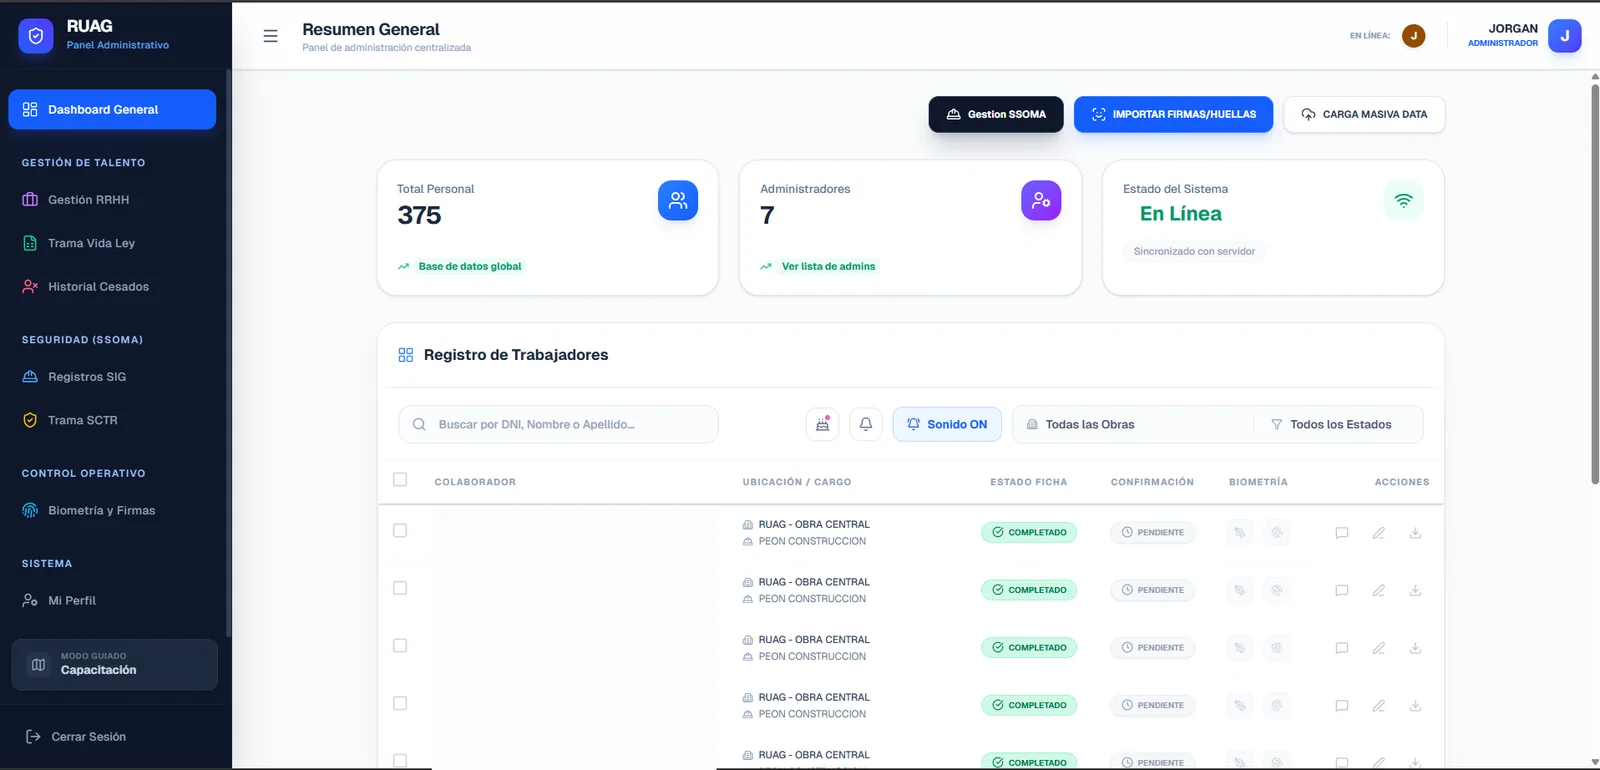
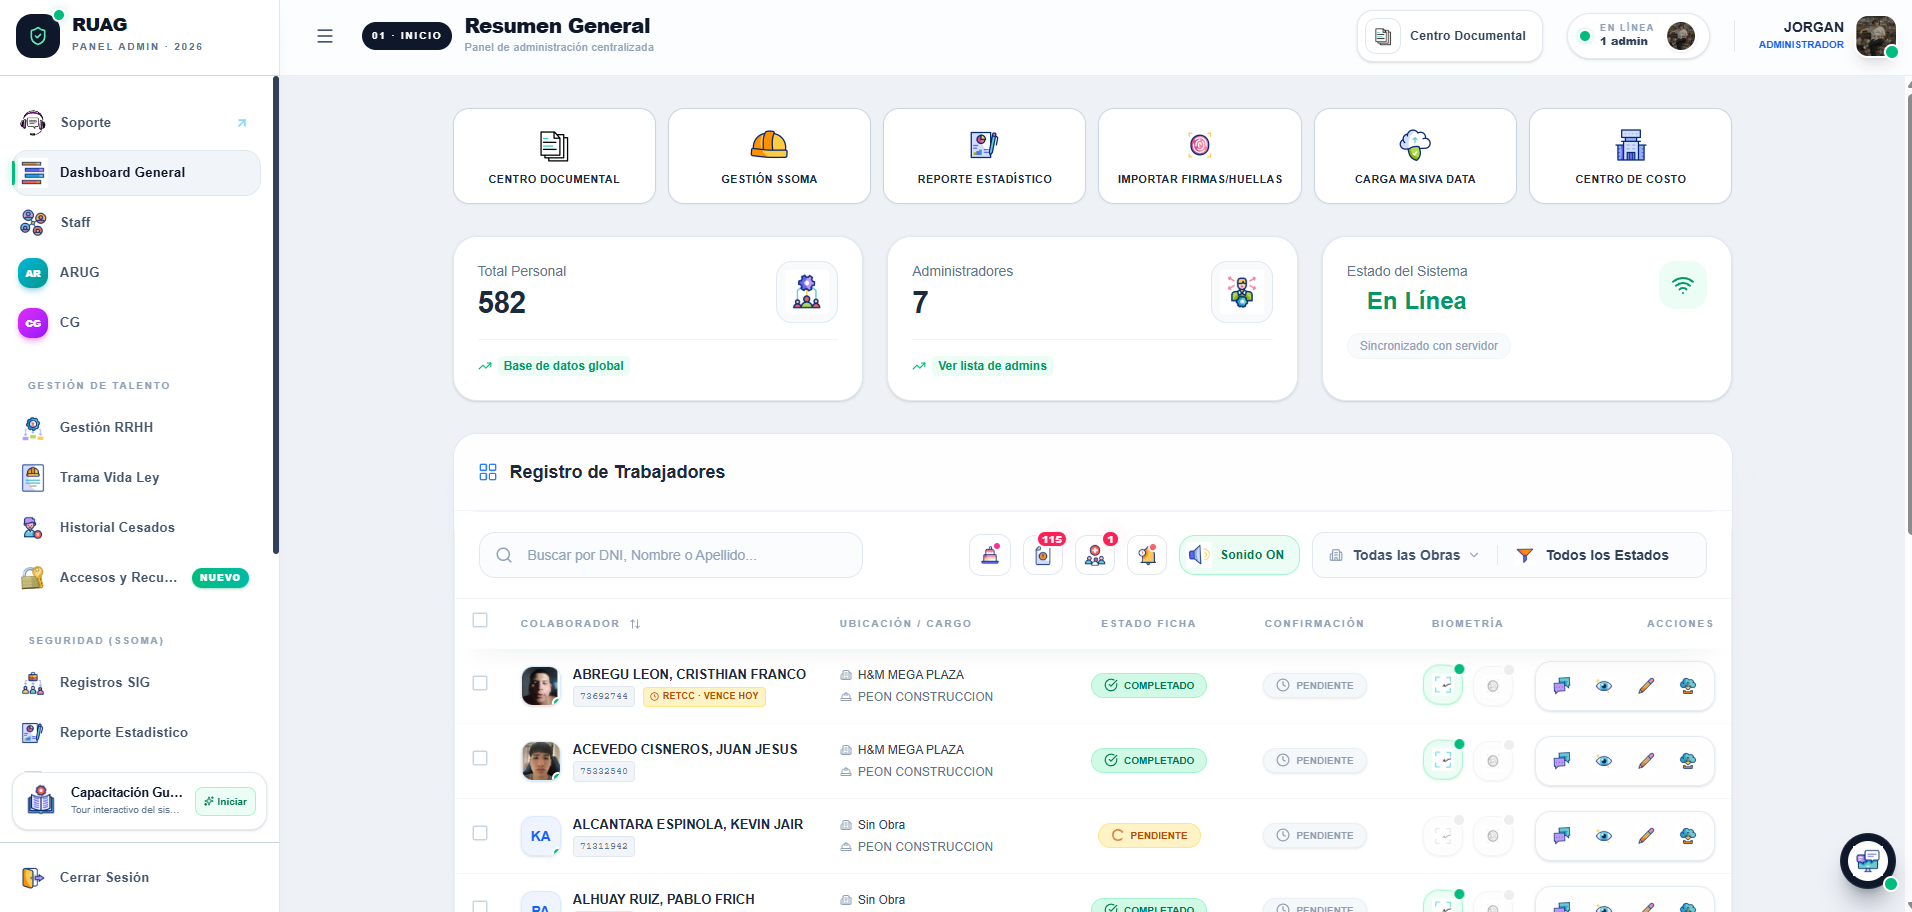
Nuevos img de proyectos

diff --git a/src/App.jsx b/src/App.jsx
@@ -108,11 +108,17 @@ const PROJECTS_META = [
     badge: "current",
     link: "https://ruag-app-web.vercel.app/",
     gallery: [
-      "/img-proyectos/ruag-logo.webp",
+      "/img-proyectos/Ruag-System-Banner.png",
       "/img-proyectos/ruag-login.webp",
       "/img-proyectos/ruag-dashboard.webp",
-      "/img-proyectos/ruag-movil1.webp",
-      "/img-proyectos/ruag-movil2.webp",
+      "/img-proyectos/ruag-movil1.jpeg",
+      "/img-proyectos/ruag-movil2.jpeg",
+      "/img-proyectos/ruag-movil3.jpeg",
+      "/img-proyectos/ruag-movil4.jpeg",
+      "/img-proyectos/ruag-movil5.jpeg",
+      "/img-proyectos/ruag-movil6.jpeg",
+      "/img-proyectos/ruag-movil7.jpeg",
+      "/img-proyectos/ruag-movil8.jpeg",
     ],
     stack: ["Next.js 14 (App Router)", "TypeScript", "Vercel Edge Functions", "SWR"],
     techStackIcons: [<SiNextdotjs key="next" />, <SiTypescript key="ts" />, <SiVercel key="vercel" />, <SiTailwindcss key="tw" />],
@@ -222,7 +228,16 @@ const PROJECTS_META = [
     category: "fullstack",
     badge: "corporate",
     link: "#",
-    gallery: [], // TODO (César): /img-proyectos/jornada-*.png
+    gallery: [
+      "/img-proyectos/Ruag-Jornada-Banner.png",
+      "/img-proyectos/Ruag-Jornada-App1.jpeg",
+      "/img-proyectos/Ruag-Jornada-App2.jpeg",
+      "/img-proyectos/Ruag-Jornada-App3.jpeg",
+      "/img-proyectos/Ruag-Jornada-App4.jpeg",
+      "/img-proyectos/Ruag-Jornada-App5.jpeg",
+      "/img-proyectos/Ruag-Jornada-App6.jpeg",
+      "/img-proyectos/Ruag-Jornada-App7.jpeg",
+    ], // TODO (César): /img-proyectos/jornada-*.png
     stack: ["Next.js", "TypeScript", "Supabase", "PostgreSQL"],
     techStackIcons: [<SiNextdotjs key="next" />, <SiTypescript key="ts" />, <SiSupabase key="supa" />, <SiPostgresql key="pg" />],
     gradient: "from-sky-900 to-blue-900",
@@ -236,7 +251,12 @@ const PROJECTS_META = [
     link: "#",
     gallery: [
       "/img-proyectos/Banner-SsomaFiles.webp",
-    ], // TODO (César): /img-proyectos/ssoma-*.png
+      "/img-proyectos/SsomaFiles-Web-Pwa.png",
+      "/img-proyectos/SsomaFiles-1.jpeg",
+      "/img-proyectos/SsomaFiles-2.jpeg",
+      "/img-proyectos/SsomaFiles-3.jpeg",
+      "/img-proyectos/SsomaFiles-4.jpeg",
+    ], // /img-proyectos/ssoma-*.png
     stack: ["Next.js", "TypeScript", "Supabase Storage", "Tailwind CSS"],
     techStackIcons: [<SiNextdotjs key="next" />, <SiTypescript key="ts" />, <SiSupabase key="supa" />, <SiTailwindcss key="tw" />],
     gradient: "from-emerald-900 to-teal-900",
